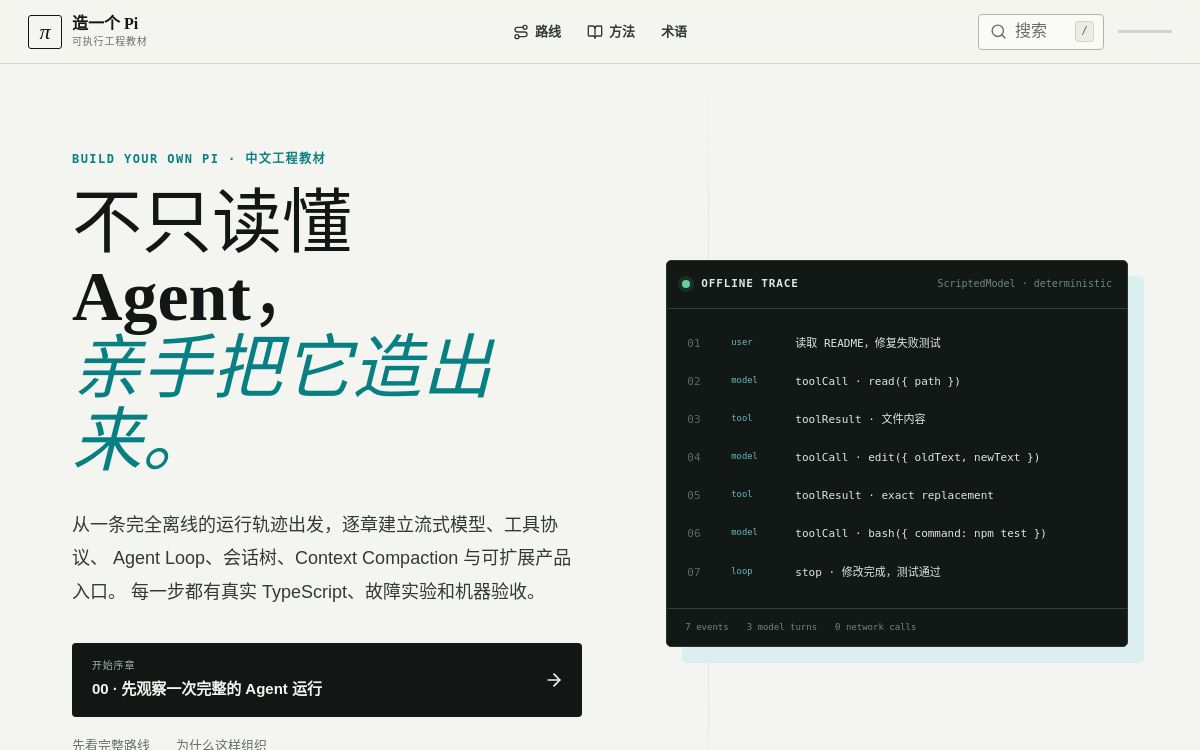
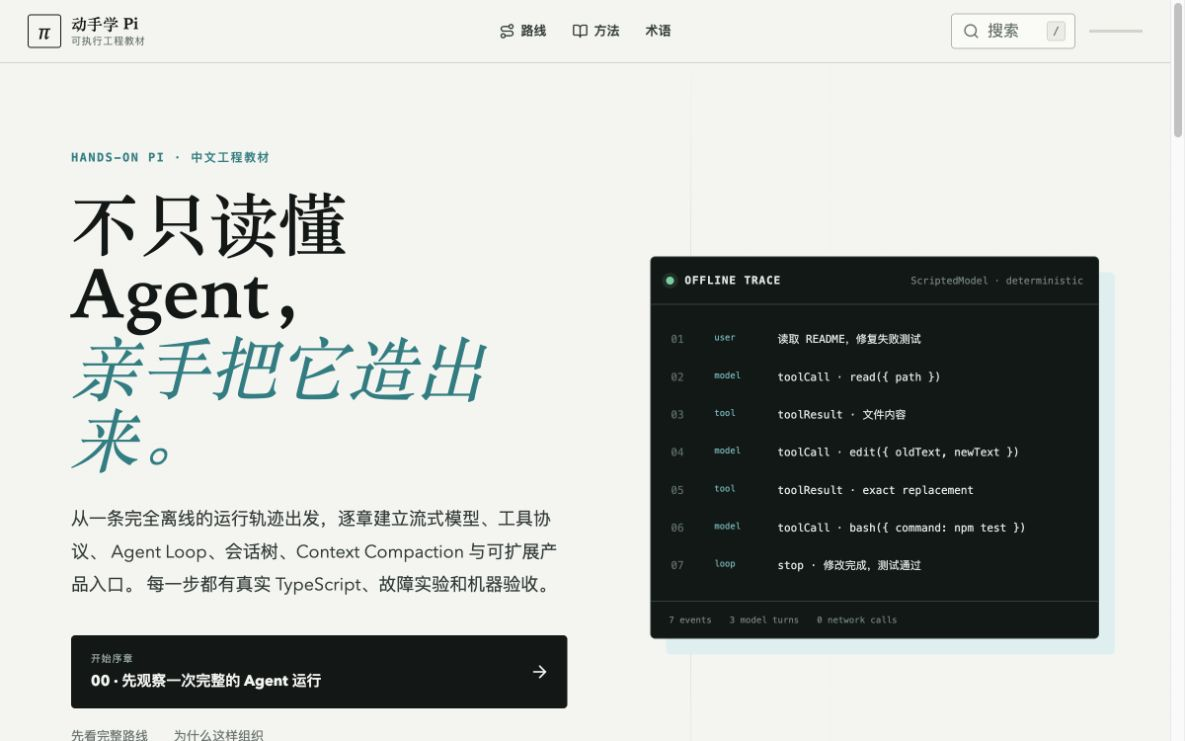
docs: rename textbook to Hands-on Pi

diff --git a/app/layout.tsx b/app/layout.tsx
@@ -25,12 +25,12 @@ export async function generateMetadata(): Promise<Metadata> {
 
   return {
     title: {
-      default: "造一个 Pi · 可执行工程教材",
-      template: "%s · 造一个 Pi",
+      default: "动手学 Pi · 可执行工程教材",
+      template: "%s · 动手学 Pi",
     },
     description:
       "一套从第一性原理出发、用真实 TypeScript 和故障实验逐步实现 Pi 的中文工程教材。",
-    applicationName: "造一个 Pi",
+    applicationName: "动手学 Pi",
     authors: [{ name: "Pi Textbook Project" }],
     keywords: [
       "Agent",
@@ -41,7 +41,7 @@ export async function generateMetadata(): Promise<Metadata> {
       "工程教材",
     ],
     openGraph: {
-      title: "造一个 Pi · 可执行 Agent 工程教材",
+      title: "动手学 Pi · 可执行 Agent 工程教材",
       description: "15 个 checkpoint，亲手实现一个可运行、可恢复、可扩展的 Pi。",
       type: "website",
       locale: "zh_CN",
@@ -50,13 +50,13 @@ export async function generateMetadata(): Promise<Metadata> {
           url: socialImage,
           width: 1672,
           height: 941,
-          alt: "造一个 Pi · 可执行 Agent 工程教材",
+          alt: "动手学 Pi · 可执行 Agent 工程教材",
         },
       ],
     },
     twitter: {
       card: "summary_large_image",
-      title: "造一个 Pi · 可执行 Agent 工程教材",
+      title: "动手学 Pi · 可执行 Agent 工程教材",
       description: "15 个 checkpoint，亲手实现一个可运行、可恢复、可扩展的 Pi。",
       images: [socialImage],
     },

diff --git a/app/page.tsx b/app/page.tsx
@@ -12,7 +12,7 @@ import { CourseMap } from "@/components/course-map";
 import { courseNav, courseParts } from "@/lib/course";
 
 export const metadata: Metadata = {
-  title: "造一个 Pi · 可执行 Agent 工程教材",
+  title: "动手学 Pi · 可执行 Agent 工程教材",
   description:
     "从消息协议和事件流开始，亲手实现工具、Agent Loop、会话树、上下文压缩与产品入口。",
 };
@@ -32,7 +32,7 @@ export default function Home() {
     <main>
       <section className="home-hero">
         <div className="hero-copy">
-          <p className="eyebrow">BUILD YOUR OWN PI · 中文工程教材</p>
+          <p className="eyebrow">HANDS-ON PI · 中文工程教材</p>
           <h1>
             不只读懂 Agent，
             <br />

diff --git a/components/site-header.tsx b/components/site-header.tsx
@@ -18,7 +18,7 @@ export function SiteHeader() {
           π
         </span>
         <span>
-          <strong>造一个 Pi</strong>
+          <strong>动手学 Pi</strong>
           <small>可执行工程教材</small>
         </span>
       </Link>

diff --git a/README.md b/README.md
@@ -1,8 +1,8 @@
 <p align="center">
-  <img src="docs/assets/logo.png" alt="造一个 Pi Logo" width="132" />
+  <img src="docs/assets/logo.png" alt="动手学 Pi Logo" width="132" />
 </p>
 
-<h1 align="center">造一个 Pi</h1>
+<h1 align="center">动手学 Pi</h1>
 
 <p align="center">
   一套可执行的中文 Agent 工程教材：不只读懂 Agent，亲手把它造出来。
@@ -15,7 +15,7 @@
 
 <p align="center">
   <a href="https://build-your-own-pi-cn.enochzhang.chatgpt.site">
-    <img src="docs/assets/homepage.jpg" alt="造一个 Pi 在线教材首页" width="1200" />
+    <img src="docs/assets/homepage.jpg" alt="动手学 Pi 在线教材首页" width="1200" />
   </a>
 </p>
 
